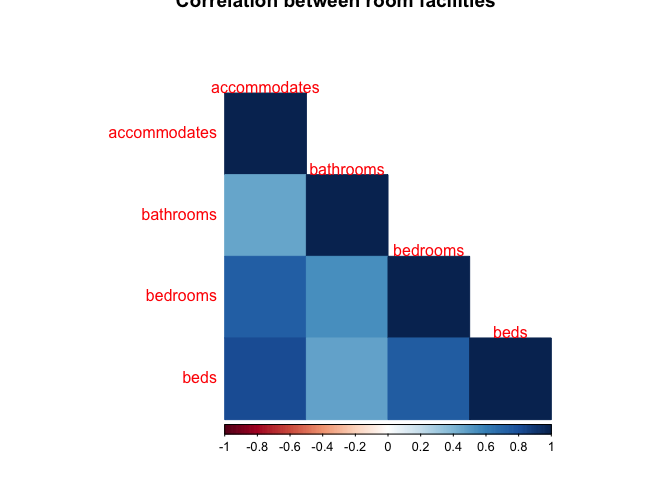
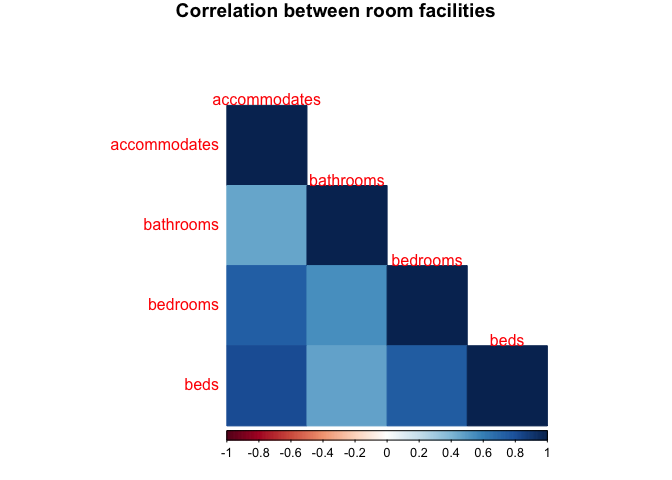
update correlation plot

Changed region(s): [[0.1562, 0.1562, 0.8438, 0.9688], [0.25, 0.0, 0.75, 0.0625]]

diff --git a/Milestone 1/Milestone-1.md b/Milestone 1/Milestone-1.md
@@ -110,7 +110,7 @@ predictors in the linear regression model.
 data[7:10] <- sapply(data[7:10] , as.double)
 corr <- cor(na.omit(data[7:10]))
 corrplot(corr, method="color", tl.srt=0,type="lower",
-         title = "Correlation between room facilities")
+         title = "Correlation between room facilities",mar=c(0,0,1,0))
 ```
 
 ![](Milestone-1_files/figure-gfm/unnamed-chunk-3-1.png)<!-- -->
@@ -129,13 +129,13 @@ ggplot(data)+geom_boxplot(aes(city, log10(price), group = city))
 
 ![](Milestone-1_files/figure-gfm/unnamed-chunk-4-1.png)<!-- -->
 
-# Research Question
+## Research Question
 
 In this analysis, we aim to investigate the influence of various factors
 on the price of Airbnb listings across various Canadian cities to see
 which ones are most likely to impact the listed price.
 
-# Plan of Action
+## Plan of Action
 
 We will first establish that the provided datasets by InsideAirbnb can
 be utilized by thoroughly ensuring there is less than 5-10% of missing
@@ -148,6 +148,6 @@ analysis between the price of the Airbnb listing and the various factors
 provided in the
 datasets.
 
-# References
+## References
 
 <https://www150.statcan.gc.ca/n1/daily-quotidien/200221/dq200221b-eng.htm?indid=3635-2&indgeo=0>
